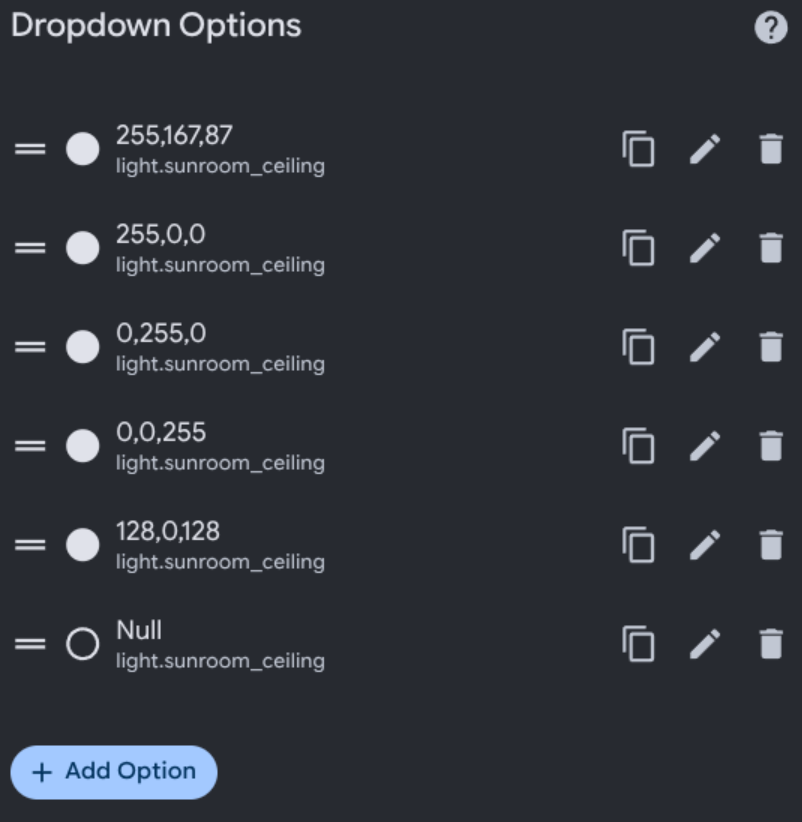
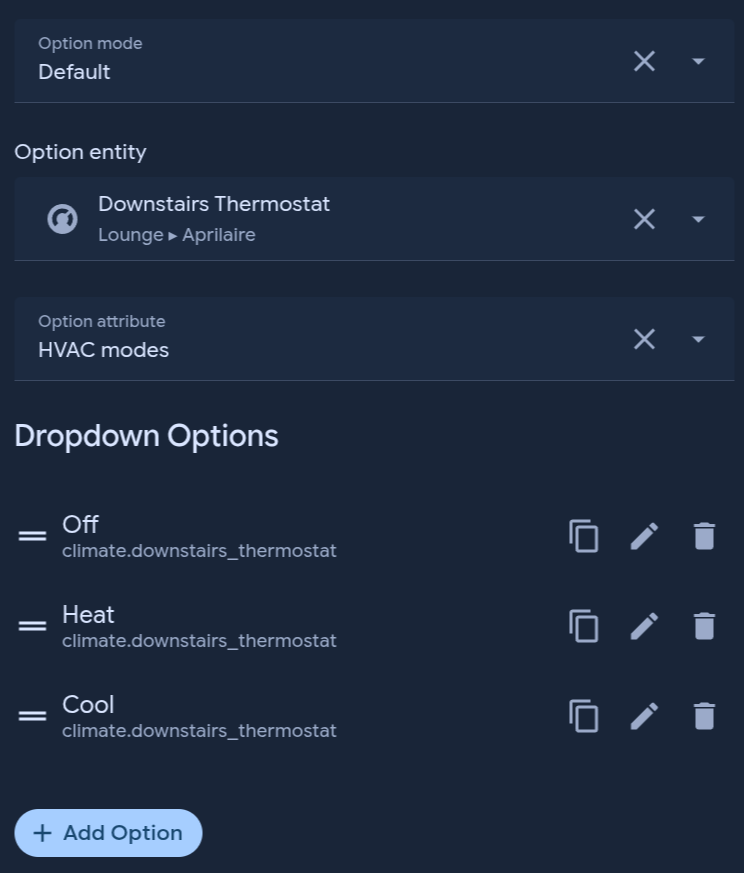
README and screenshot updates

diff --git a/README.md b/README.md
@@ -47,7 +47,7 @@ Dropdowns allow you to create a dropdown window with multiple user provided opti
 
 You need to define the options to be listed out in the dropdown list manually. Each of these options is a custom element that supports an action and its own appearance fields. The currently selected option is the one whose `Option` field matches the state or attribute value of the dropdown parent entity.
 
-This feature works best with entities that can call services which set a value from a list of possible options, usually defined by one of its attributes. By setting the feature entity to one of these entities, any options you add will automatically have the ordered option from the select entity in both the `option` and action data filled in along with the `select_option` action information. If no icon or label is provided, the option will use its option as its label.
+This feature works best with entities that can perform actions which set a value from a list of possible options, usually defined by one of the entity attributes. By setting the feature entity to one of these entities, any options you add will automatically have the ordered option from the select entity in both the `option` and action data filled in along with the action information. If no icon or label is provided, the option will use its option as its label.
 
 You can override the default behavior of each option by changing their action. The `Option` field will be the value to compare against the feature's value, whether that is its entity's state or one of its attributes. If they match and are not undefined, then the the option will be displayed in the dropdown window. You can use a template in the parent attribute field for more advanced matching.
 
@@ -71,7 +71,7 @@ Selectors allow you to create a row of custom button features with no gaps of wh
 
 After adding a selector to your custom features row, you will see nothing! This is because you need to define the options to be listed out in the selector manually. Each of these options is actually a custom button feature. The currently selected option is the one whose `Option` field matches the state or attribute value of the dropdown parent entity.
 
-Like dropdowns, this feature works best with Home Assistant `select/input_select` entities. By setting the feature entity to one of these domains, any options you add will automatically have the ordered option from the select entity in both the `option` and action data filled in along with the `select_option` action information. While the option fields and action information will autofill, you still have to click the add option button and give them appearance information so that they will render and be distinguishable (you'll know that you've added all possible options when the last option you add has the text `Option` instead of a different value).
+Like dropdowns, this feature works best with Home Assistant entities with list attributes and set option actions. By setting the feature entity to one of these entities, any options you add will automatically have the ordered option from the select entity in both the `option` and action data filled in along with the action information when you click autofill. You still have to modify either the individual options or option template to give them appearance information so that they will render and be distinguishable (you'll know that you've added all possible options when the last option you add has the text `Option` even after autofilling).
 
 Since each selector option is a custom feature button, you can override its default behavior by changing its tap action. The `Option` field will be the value to compare against the feature's value, whether that is its entity's state or one of its attributes. If they match and are not undefined, then the the option will be highlighted. The option highlight color defaults to the parent card color (usually the tile card color), but can be changed by setting the CSS attribute `--color` to a different value, either for the entire feature or an individual option.
 
@@ -131,7 +131,7 @@ You can also add CSS styles for the entire row here. CSS styles have to be encap
 }
 ```
 
-By default, features will autofill with its parent's entity information for tracking its internal state when added. The feature icon and unit of measurement will also autofill if available. You can click the autofill button in a feature or subfeature header to refill the default information into any fields that are not populated.
+By default, features will autofill with its parent's entity information for tracking its internal state when you click the autofill button in the header. Other information such as its icon, unit of measurement, and action will also autofill if available.
 
 Haptics can be toggled on and off for each feature, defaulting to off.
 
@@ -2548,7 +2548,6 @@ features:
         entity_id: light.desk_lights
         icon: ''
         unit_of_measurement: '%'
-        autofill_entity_id: false
         value_attribute: brightness
         thumb: transparent
         label: Desk Lights
